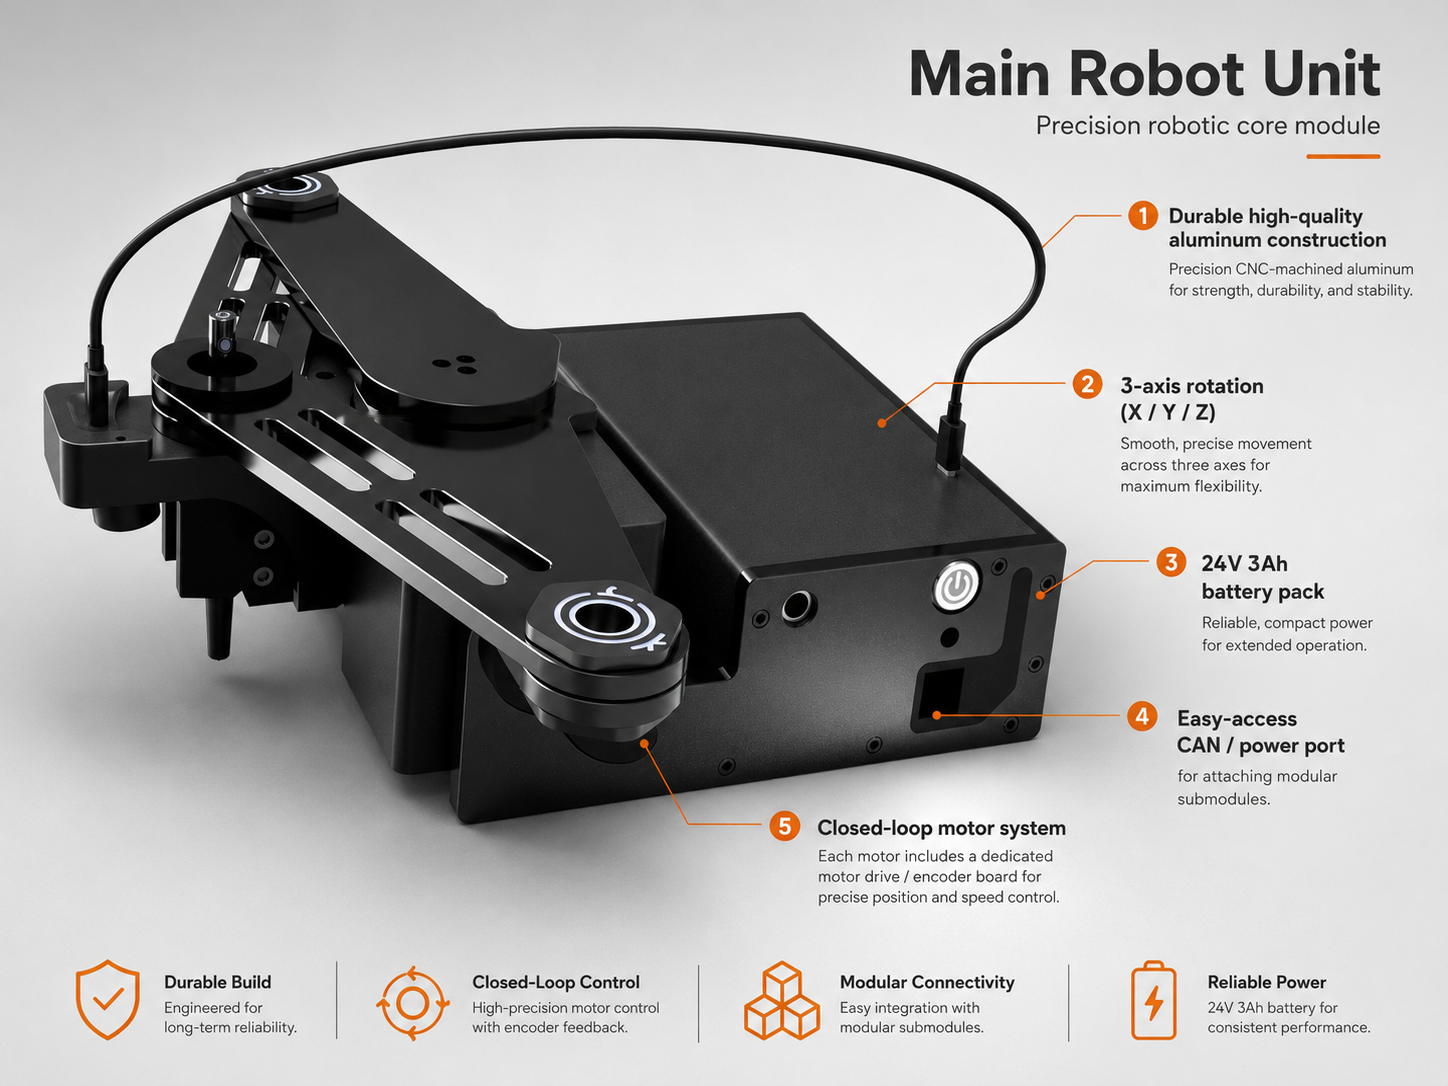
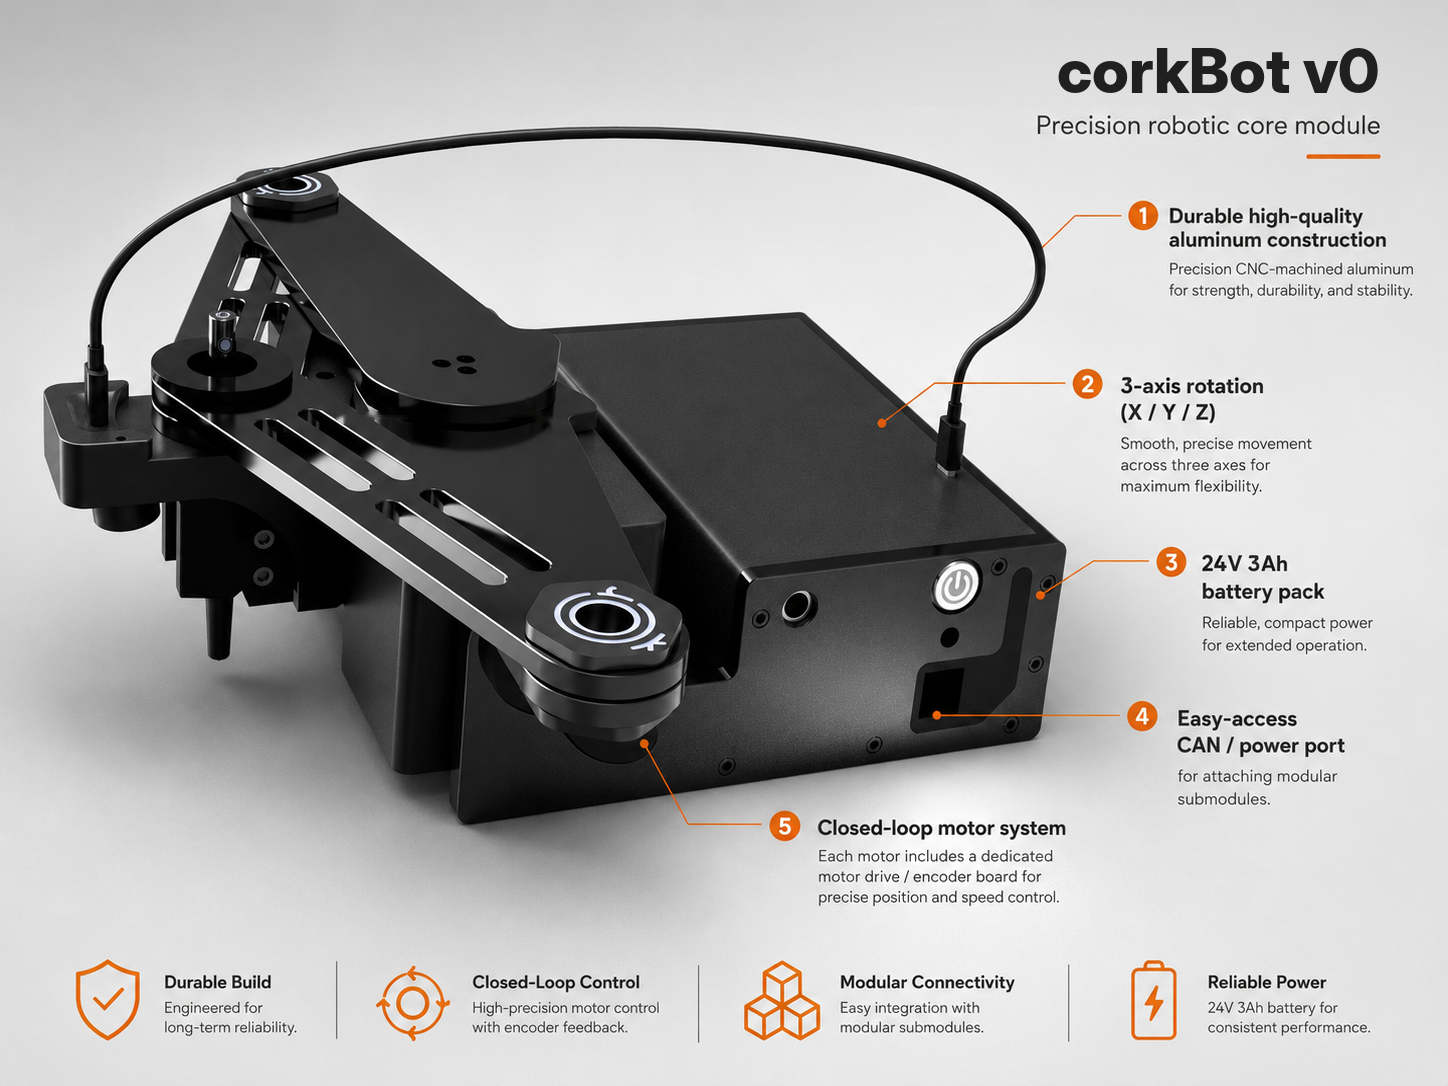
Update corkBot V0 product showcase

Changed region(s): [[0.6215, 0.0304, 0.9634, 0.0912]]

diff --git a/index.html b/index.html
@@ -81,21 +81,21 @@
     <section class="section section-contrast" id="corkbot-v0">
       <div class="container product-feature">
         <figure class="product-feature-media">
-          <img src="/assets/img/corkbot-v0-main-robot-unit.png?v=launch-20260602-corkbotv0" alt="Annotated corkBot v0 main robot unit with three-axis motion, closed-loop motor system, battery pack, modular connectivity, and aluminum construction." loading="lazy">
+          <img src="/assets/img/corkbot-v0-main-robot-unit.png?v=launch-20260602-corkbotv0-clean2" alt="Annotated corkBot V0 product showcase with three-axis motion, closed-loop motor system, battery pack, modular connectivity, and aluminum construction." loading="lazy">
         </figure>
         <div class="product-feature-copy">
           <span class="status-pill">Primary offering</span>
-          <p class="eyebrow">Main robot unit</p>
-          <h2>corkBot v0.</h2>
+          <p class="eyebrow">corkBot V0</p>
+          <h2>corkBot V0.</h2>
           <p class="section-lead">A portable, standalone robotic core built around closed-loop servo motion, modular tool heads, and quickly attachable submodules for changing use cases.</p>
-          <dl class="product-specs" aria-label="corkBot v0 specifications">
+          <dl class="product-specs" aria-label="corkBot V0 specifications">
             <div>
               <dt>Footprint</dt>
               <dd>200 mm x 191 mm</dd>
             </div>
             <div>
               <dt>Reachable workspace</dt>
-              <dd>Roughly 300 mm x 350 mm</dd>
+              <dd>300 mm x 350 mm workspace</dd>
             </div>
             <div>
               <dt>Motion</dt>
